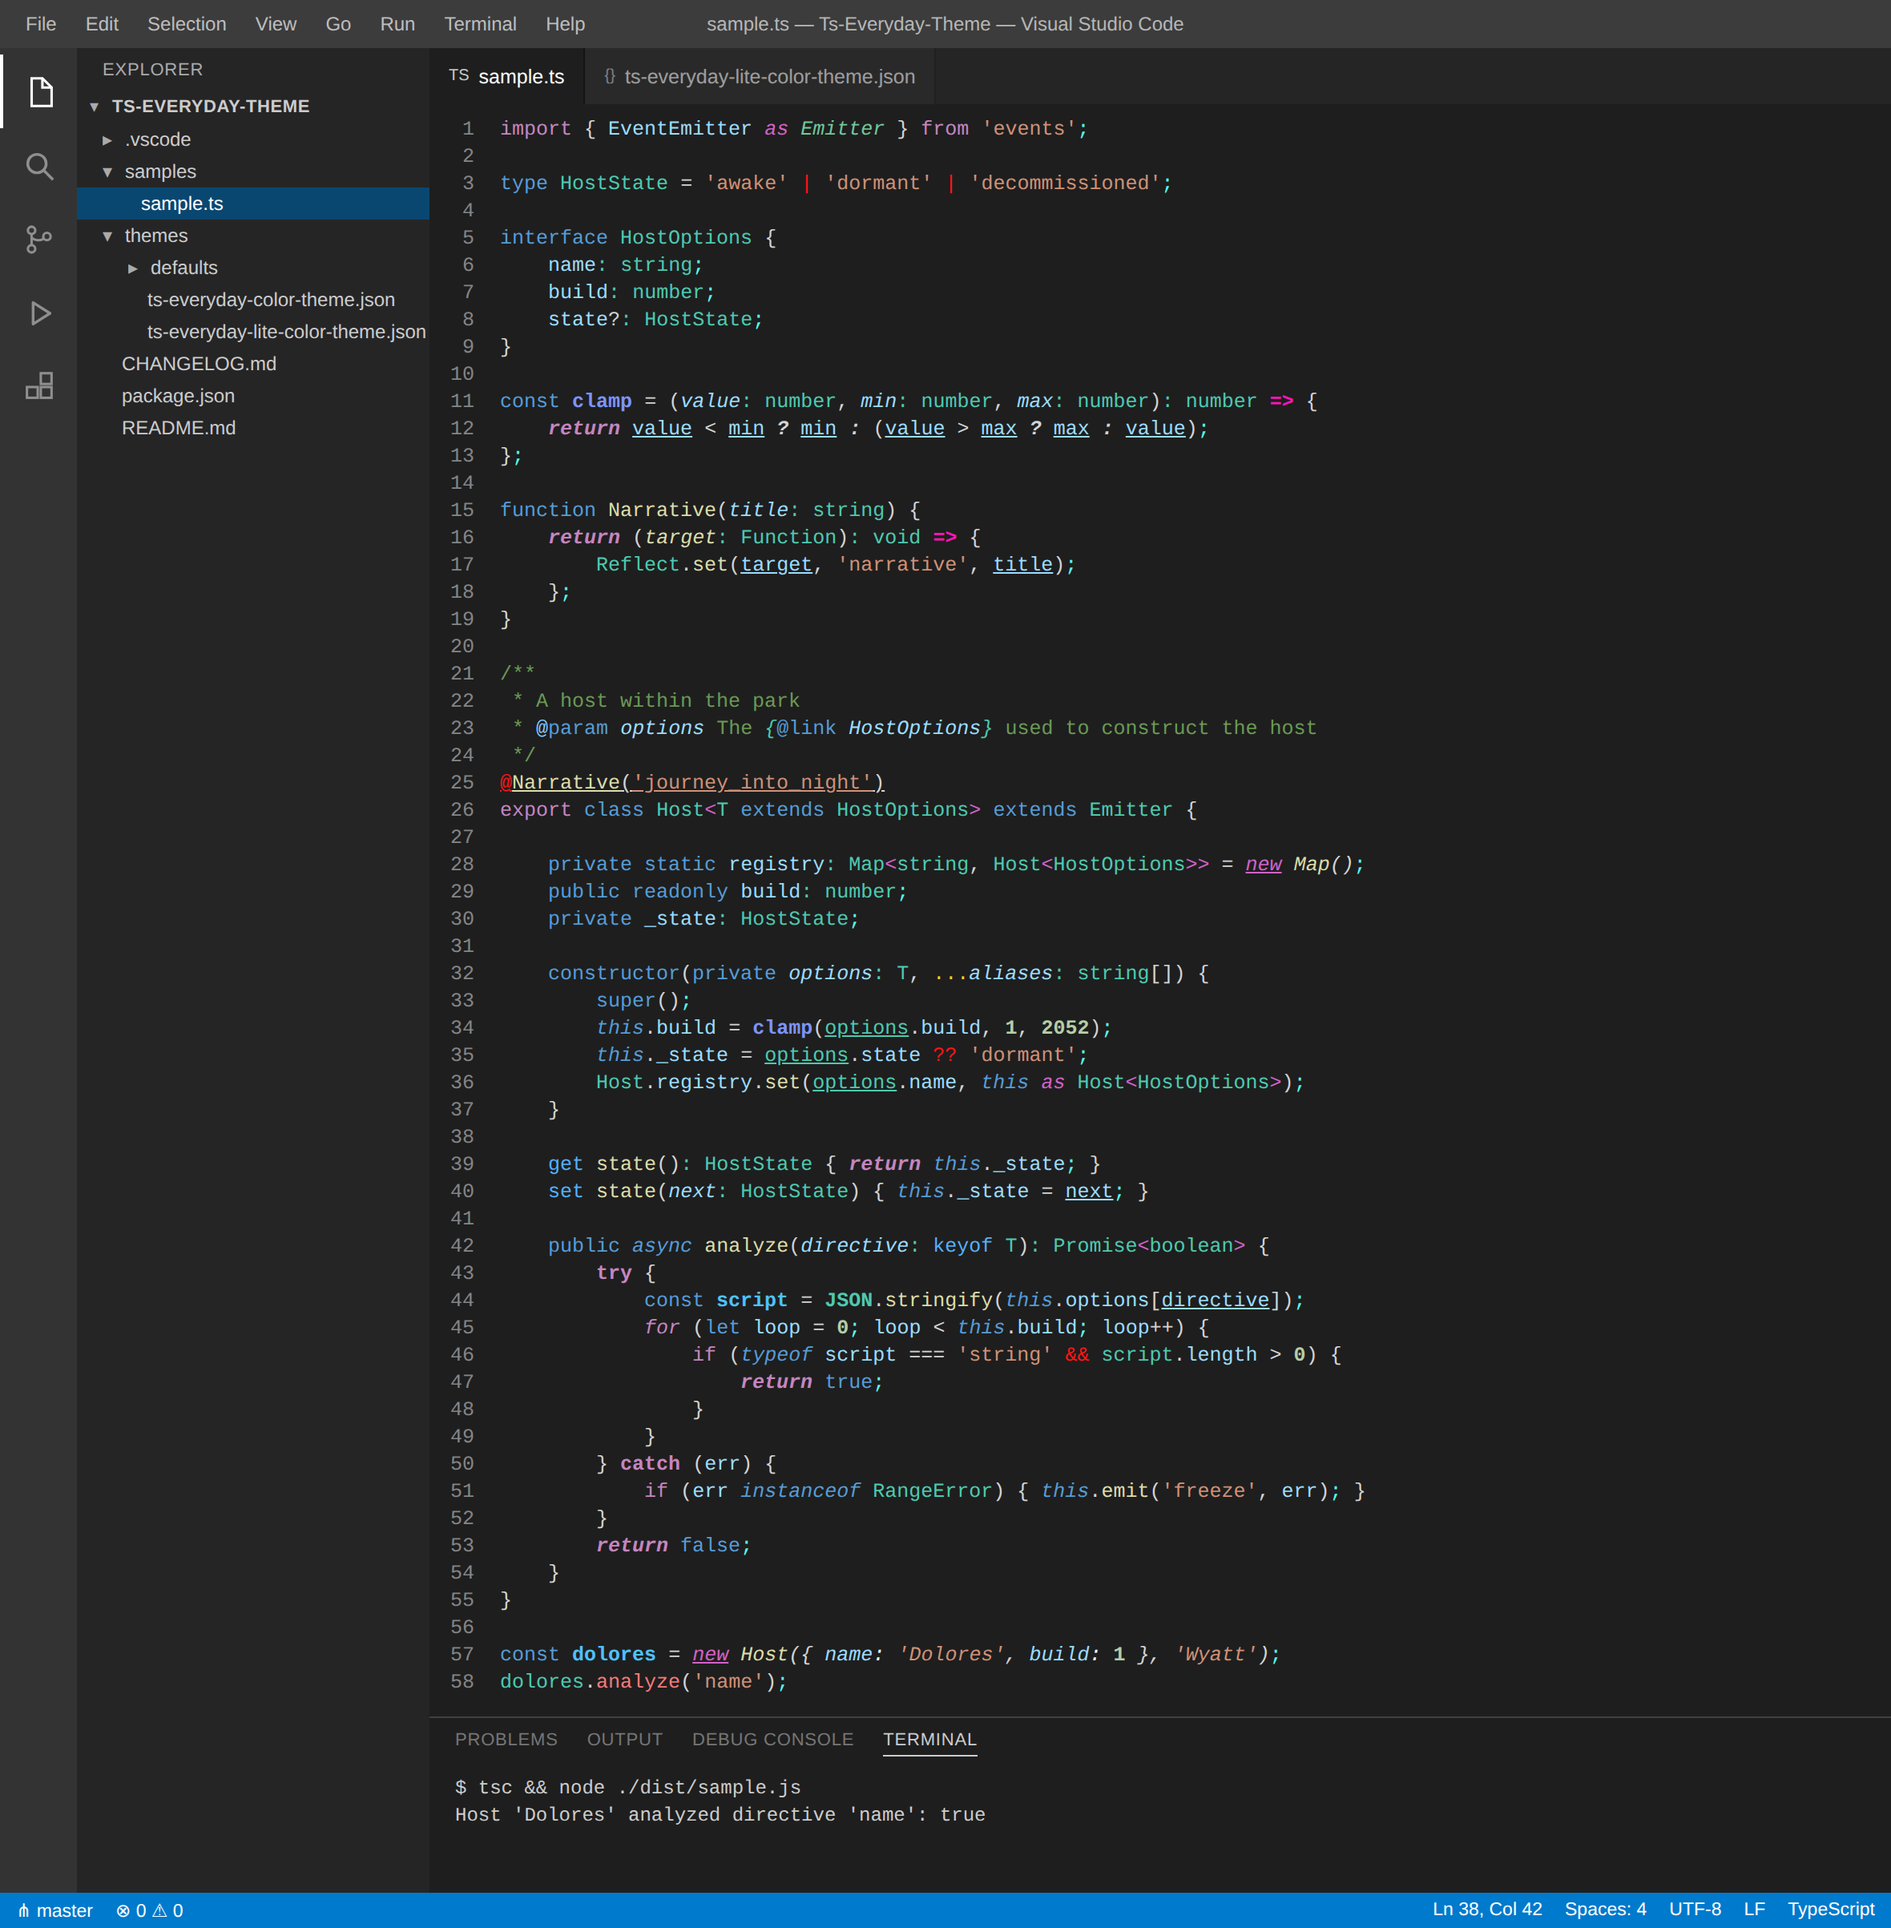
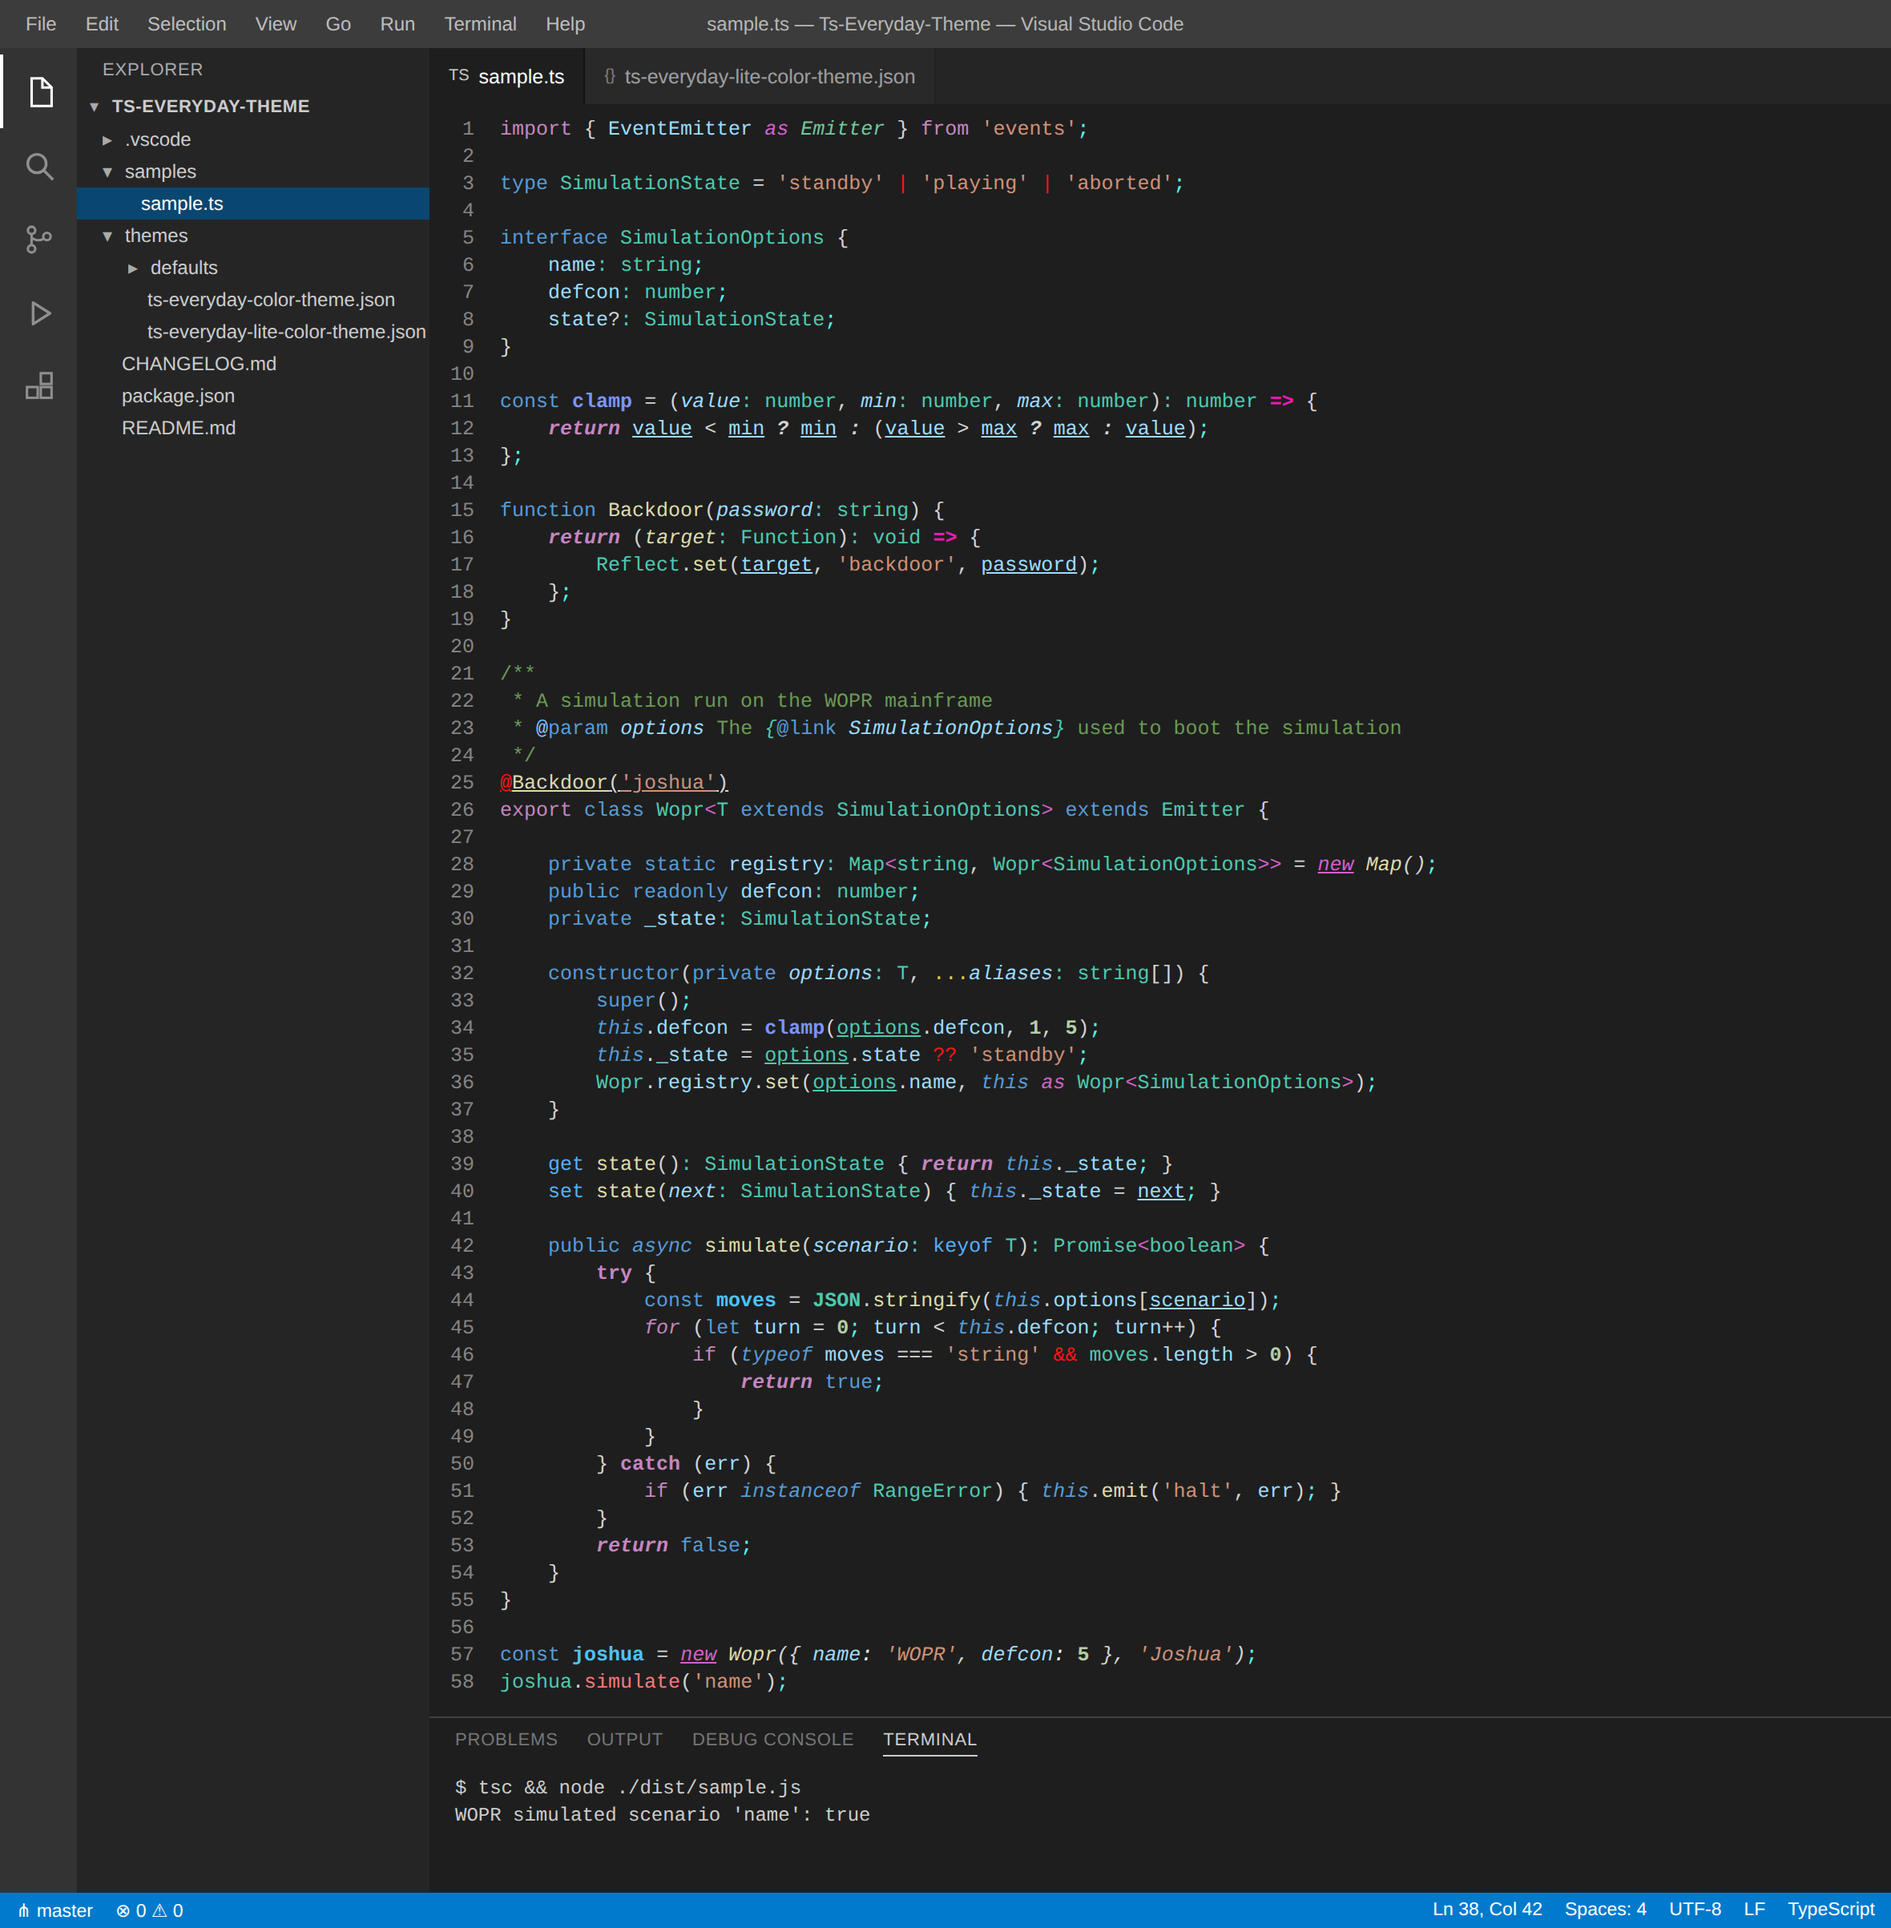
Reword README and reskin sample as a WarGames reference
- Drop the invented origin-story paragraph and trim filler
- Rename sample identifiers to a light WarGames motif (WOPR/Joshua/DEFCON)
  and regenerate the theme previews from it

Claude-Session: https://claude.ai/code/session_01BE9FuFhPFnkn8KqudN6Lbq

diff --git a/samples/sample.ts b/samples/sample.ts
@@ -1,58 +1,58 @@
 import { EventEmitter as Emitter } from 'events';
 
-type HostState = 'awake' | 'dormant' | 'decommissioned';
+type SimulationState = 'standby' | 'playing' | 'aborted';
 
-interface HostOptions {
+interface SimulationOptions {
     name: string;
-    build: number;
-    state?: HostState;
+    defcon: number;
+    state?: SimulationState;
 }
 
 const clamp = (value: number, min: number, max: number): number => {
     return value < min ? min : (value > max ? max : value);
 };
 
-function Narrative(title: string) {
+function Backdoor(password: string) {
     return (target: Function): void => {
-        Reflect.set(target, 'narrative', title);
+        Reflect.set(target, 'backdoor', password);
     };
 }
 
 /**
- * A host within the park
- * @param options The {@link HostOptions} used to construct the host
+ * A simulation run on the WOPR mainframe
+ * @param options The {@link SimulationOptions} used to boot the simulation
  */
-@Narrative('journey_into_night')
-export class Host<T extends HostOptions> extends Emitter {
+@Backdoor('joshua')
+export class Wopr<T extends SimulationOptions> extends Emitter {
 
-    private static registry: Map<string, Host<HostOptions>> = new Map();
-    public readonly build: number;
-    private _state: HostState;
+    private static registry: Map<string, Wopr<SimulationOptions>> = new Map();
+    public readonly defcon: number;
+    private _state: SimulationState;
 
     constructor(private options: T, ...aliases: string[]) {
         super();
-        this.build = clamp(options.build, 1, 2052);
-        this._state = options.state ?? 'dormant';
-        Host.registry.set(options.name, this as Host<HostOptions>);
+        this.defcon = clamp(options.defcon, 1, 5);
+        this._state = options.state ?? 'standby';
+        Wopr.registry.set(options.name, this as Wopr<SimulationOptions>);
     }
 
-    get state(): HostState { return this._state; }
-    set state(next: HostState) { this._state = next; }
+    get state(): SimulationState { return this._state; }
+    set state(next: SimulationState) { this._state = next; }
 
-    public async analyze(directive: keyof T): Promise<boolean> {
+    public async simulate(scenario: keyof T): Promise<boolean> {
         try {
-            const script = JSON.stringify(this.options[directive]);
-            for (let loop = 0; loop < this.build; loop++) {
-                if (typeof script === 'string' && script.length > 0) {
+            const moves = JSON.stringify(this.options[scenario]);
+            for (let turn = 0; turn < this.defcon; turn++) {
+                if (typeof moves === 'string' && moves.length > 0) {
                     return true;
                 }
             }
         } catch (err) {
-            if (err instanceof RangeError) { this.emit('freeze', err); }
+            if (err instanceof RangeError) { this.emit('halt', err); }
         }
         return false;
     }
 }
 
-const dolores = new Host({ name: 'Dolores', build: 1 }, 'Wyatt');
-dolores.analyze('name');
+const joshua = new Wopr({ name: 'WOPR', defcon: 5 }, 'Joshua');
+joshua.simulate('name');

diff --git a/preview/build-previews.js b/preview/build-previews.js
@@ -68,9 +68,9 @@ function flattenTheme(path) {
  * runtime; VS Code then styles them via the theme's semanticTokenColors. Shiki
  * has no language service, so the classifications for the sample are declared
  * here and re-applied over the TextMate tokens. */
-const PARAMETERS = new Set(['value', 'min', 'max', 'title', 'target', 'options', 'aliases', 'next', 'directive']);
+const PARAMETERS = new Set(['value', 'min', 'max', 'password', 'target', 'options', 'aliases', 'next', 'scenario']);
 const READONLY_FUNCTIONS = new Set(['clamp']);
-const ASYNC_MEMBERS = new Set(['analyze']);
+const ASYNC_MEMBERS = new Set(['simulate']);
 const DEFAULT_LIBRARY_VARIABLES = new Set(['JSON', 'Reflect']);
 
 function normalizeSemanticRule(rule) {
@@ -286,7 +286,7 @@ ${codeHtml}
             <div class="panel">
                 <div class="paneltabs"><span>PROBLEMS</span><span>OUTPUT</span><span>DEBUG CONSOLE</span><span class="active">TERMINAL</span></div>
                 <div class="term">$ tsc && node ./dist/sample.js
-Host 'Dolores' analyzed directive 'name': true</div>
+WOPR simulated scenario 'name': true</div>
             </div>
         </div>
     </div>

diff --git a/README.md b/README.md
@@ -18,14 +18,12 @@ Or, install it straight from the [Visual Studio Marketplace][marketplace-url]. T
 
 ## What does this extension do?
 
-I write TypeScript every day, and over time I kept tweaking the stock **Dark+** theme with small bits of syntax highlighting that made the language's *structure* easier to see at a glance- which operators are type-level vs. runtime, where the control flow changes, which identifiers are parameters, and so on. Eventually those tweaks grew into a proper theme, and, thus, this extension was born.
-
 The extension ships with **2** themes, and both of them share the exact same TypeScript syntax highlighting:
 
 * **TS Everyday** - A dark-purple theme that re-skins the entire VS Code workbench (title bar, activity bar, side bar, tabs, panel, terminal, & status bar) with a near-black editor, to compliment the custom TypeScript highlighting
 * **TS Everyday Lite** - A classic Dark+ based theme that leaves the workbench alone, with the same syntax highlighting as TS Everyday
 
-Both themes are built directly on top of VS Code's own `dark_plus.json`, so anything not explicitly overridden looks exactly like the Dark+ you already know. If you are a minimalist, the Lite flavor is for you.
+Both themes are built directly on top of VS Code's own `dark_plus.json`, so anything not explicitly overridden looks exactly like stock Dark+.
 
 Let's take a look at what the Lite flavor looks like with the same sample file:
 
@@ -55,7 +53,7 @@ Both themes also enable VS Code's [semantic highlighting](https://code.visualstu
 * **Readonly functions** (i.e. `const` arrow functions) are **bold** periwinkle (`#7c94fd`), to distinguish them from regular `function` declarations
 * **Default library variables** like `JSON` & `Reflect` are teal (`#4EC9B0`), matching the built-in types they belong to
 
-Let's take a look at lines 42 & 58 of the sample above. As you can see, `analyze` is gold where the `async` method is *declared*, but salmon where it is *called* from- that's the `member.async` / `member.declaration.async` pair doing its job. That one rule alone has saved me from more than a few forgotten `await`s.
+Let's take a look at lines 42 & 58 of the sample above. As you can see, `simulate` is gold where the `async` method is *declared*, but salmon where it is *called* from- that's the `member.async` / `member.declaration.async` pair doing its job, flagging at the call site exactly where an `await` belongs.
 
 ## Generating the previews
 
